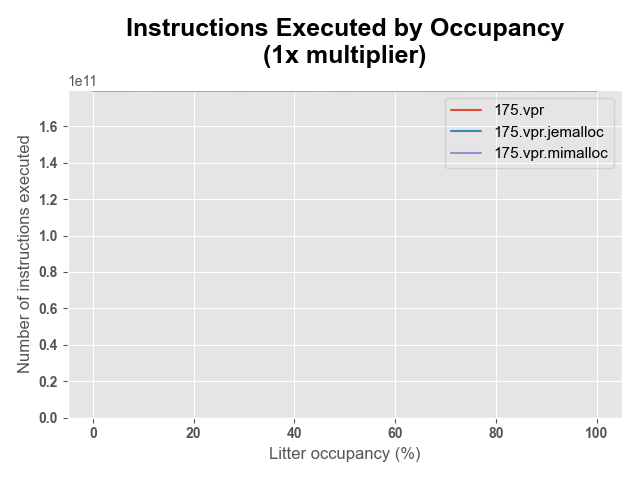
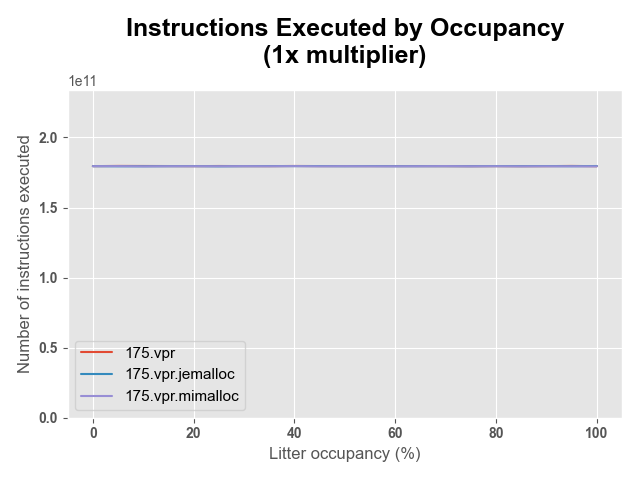
Fix graphs where there is not enough vertical space

diff --git a/scripts/stat_graphs.py b/scripts/stat_graphs.py
@@ -180,10 +180,9 @@ for benchmark in benchmarks:
         tick.set_fontsize(10)
     # plt.setp(ticks, ha='right', rotation=90)
     
-
-# if GRAPH_TYPE == ELAPSED_TIME_BY_OCCUPANCY:
-#     plt.ylim(bottom=0)
 plt.ylim(bottom=0)
+# xmin, xmax, ymin, ymax = plt.axis()
+# plt.ylim(top=ymax*1.3)
 
 ax.set_title(f"{TITLES[GRAPH_TYPE]}", pad=20, fontweight='bold', font=default_font, fontsize=18)
 ax.set_xlabel("Litter occupancy (%)")
